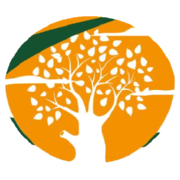
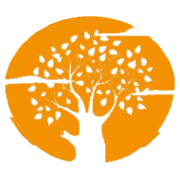
Corrige l'emblème mordu et la signature affichée trois fois
Deux défauts signalés sur captures.

L'emblème de la bannière paraissait mordu en haut à gauche : le trait vert
foncé qui traverse le disque se confondait avec le fond vert forêt. Ce trait
appartient au lockup complet, pas à l'emblème. Il est désormais comblé avec
l'orange du disque, y compris les pixels intermédiaires du lissage qui
laissaient un liseré sombre. L'emblème ne contient plus que ses deux
couleurs et se lit sur n'importe quel fond, favicone comprise.

Le pied de page affichait la signature trois fois : dans l'image du logo
— à 8 px de haut, donc illisible — puis deux fois en texte. Il utilise
maintenant le mot-symbole sans signature, et chaque phrase n'apparaît
qu'une fois. Vérifié sur le HTML rendu.

diff --git a/src/components/layout/footer.tsx b/src/components/layout/footer.tsx
@@ -38,8 +38,11 @@ export async function Footer({ locale }: { locale: Locale }) {
       <Container>
         <div className="grid gap-10 py-14 sm:grid-cols-2 lg:grid-cols-5">
           <div className="lg:col-span-1">
-            <Logo variant="full" onDark className="h-20" />
-            <p className="mt-3 text-sm text-cream-200">{t("brand.tagline")}</p>
+            {/* Le mot-symbole sans la signature : celle-ci figure déjà en
+                toutes lettres dans la barre du bas, et à cette hauteur elle
+                serait de toute façon illisible dans l'image. */}
+            <Logo variant="wordmark" onDark className="h-14" />
+            <p className="mt-4 text-sm text-cream-200">{t("brand.tagline")}</p>
             <p className="mt-4 text-sm text-cream-200">
               {t("footer.location")}
             </p>
